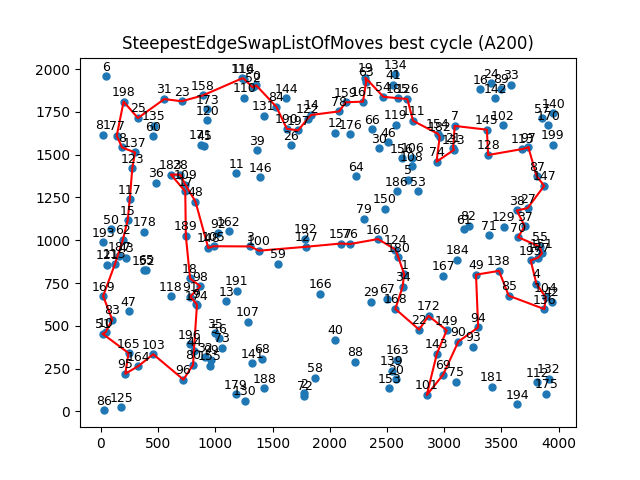
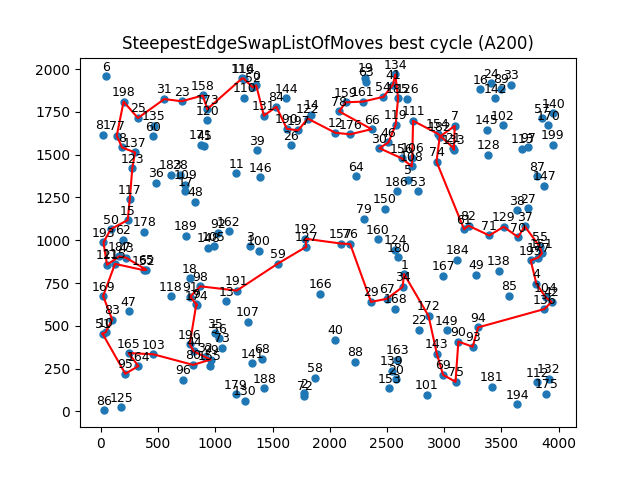
Fix candidate

diff --git a/aem/heuristics/lab3/steepest_edge_swap_candidate.py b/aem/heuristics/lab3/steepest_edge_swap_candidate.py
@@ -36,7 +36,14 @@ class SteepestEdgeSwapCandidate(SteepestHeuristic):
                     else:
                         yield es2
                 else: # NodeSwap
-                    yield NodeSwap(n1, n2, (cycle[cycle.index(n1) - 1], cycle[(cycle.index(n1) + 1) % len(cycle)]))
+                    n1_prev = cycle[cycle.index(n1) - 1]
+                    n1_next = cycle[(cycle.index(n1) + 1) % len(cycle)]
+                    ns1 = NodeSwap(n1_prev, n2, (cycle[cycle.index(n1_prev) - 1], n1))
+                    ns2 = NodeSwap(n1_next, n2, (n1, cycle[(cycle.index(n1_next) + 1) % len(cycle)]))
+                    if ns1.get_delta(self.graph) < ns2.get_delta(self.graph):
+                        yield ns1
+                    else:
+                        yield ns2
 
     def reset(self):
         pass

diff --git a/main_lab3.py b/main_lab3.py
@@ -17,7 +17,7 @@ for instance in instances:
     print(f"Working on {instance}")
     graph = TSPReader().read_graph_with_coords(instance)
 
-    methods = [SteepestEdgeSwapCandidate(graph, 7), SteepestEdgeSwapListOfMoves(graph), SteepestEdgeSwap(graph)]
+    methods = [SteepestEdgeSwapCandidate(graph, 5)]
     for method in methods:
         result = method.run(seed=13, number_of_experiments=100)
         results[result.method_classname] = [result.average, result.min, result.max, result.time_average,
